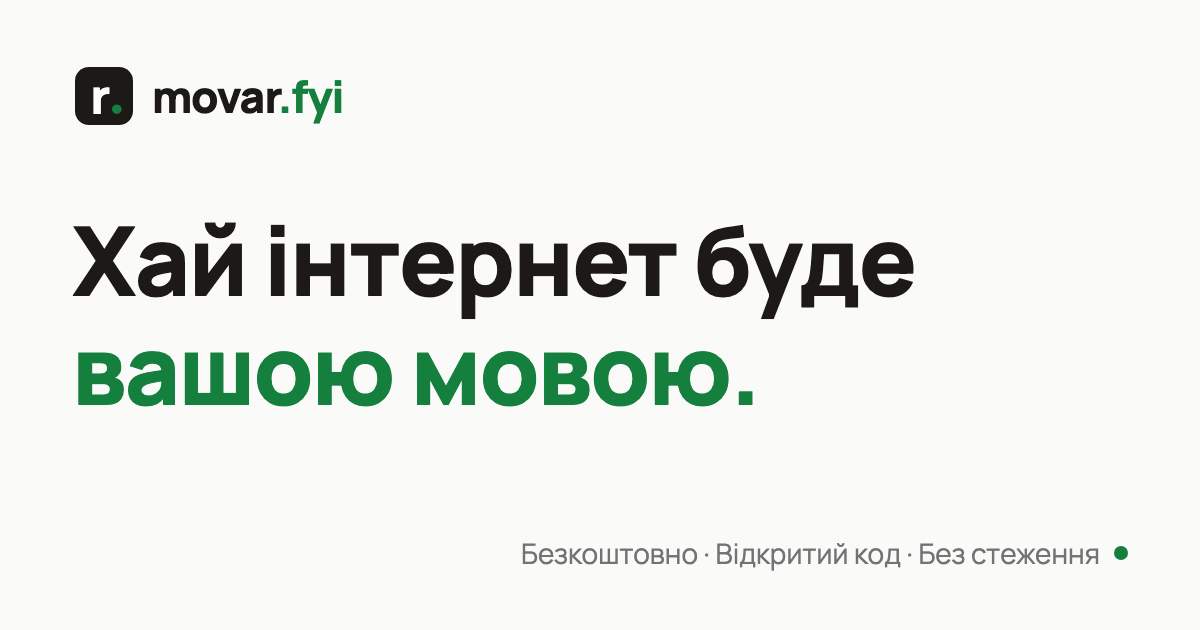
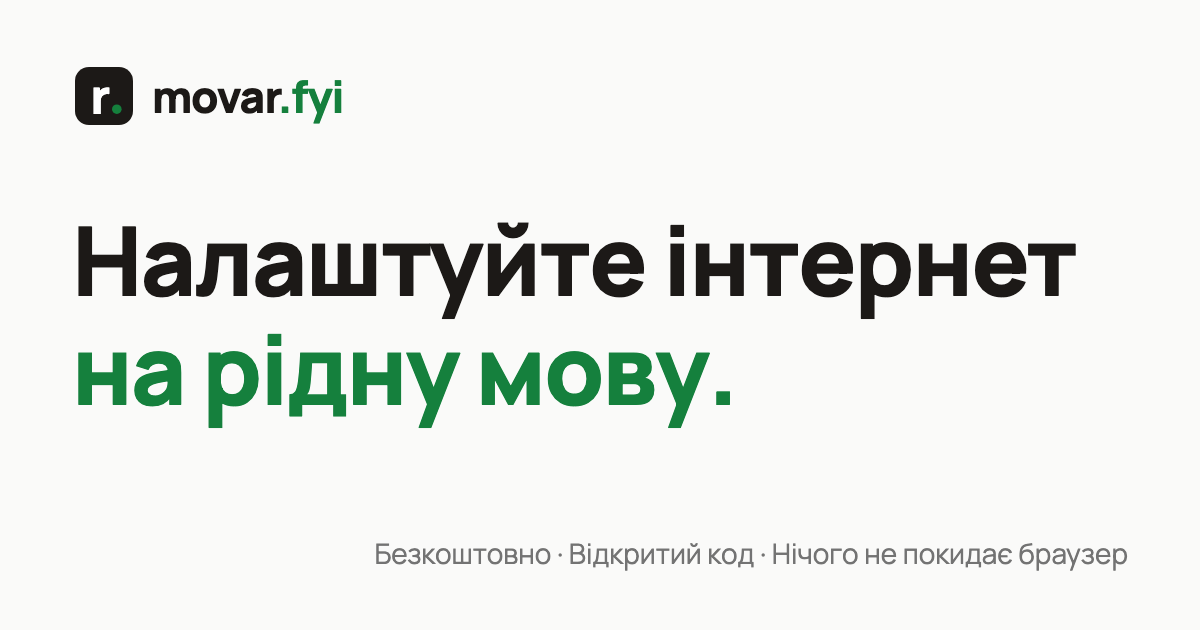
fix(marketing): rephrase OG caption to the verified privacy claim, drop annotation dot
The OG share card's bottom-right caption ended with a 14px forest accent
dot sitting right after the privacy claim, where a footnote marker goes —
it read as a "terms apply" annotation hanging off the last word. Remove it;
the accent still carries in the wordmark and tagline line 2, and the caption
now ends flush with the same 72px right margin the wordmark and tagline share
(the dot had also pushed the text past that margin).

Rephrase the caption from "No tracking" / «Без стеження» to the canonical
"Nothing leaves your browser" / «Нічого не покидає браузер» — the same
machine-verified promise string already used by the hero badge, the Safari
host app, and the store listing, so the claim reads identically everywhere.

Also:
- The checked-in UK PNG still rendered a retired tagline ("Хай інтернет буде
  вашою мовою."); the card is captured on demand and nobody had re-run it.
  Regenerating both cards picks up the current tagline and the new caption.
- Widen the copy-contract caption cap 6 -> 8 words (docs/copy.md) so the spec
  matches what shipped, per its own round-up rule.
- The claim string now appears on the OG card too, so add it to the
  "Nothing leaves your browser" promise's claim sites (scripts/lib/promises.mts);
  regenerate the README promises block that field drives.

Changed region(s): [[0.0617, 0.3317, 0.8942, 0.5127], [0.0617, 0.5127, 0.6475, 0.6937], [0.3083, 0.8444, 0.9558, 0.9048]]

diff --git a/apps/marketing/src/og/OgCard.tsx b/apps/marketing/src/og/OgCard.tsx
@@ -46,10 +46,7 @@ export function OgCard({ lang = 'en' }: Readonly<OgCardProps>): JSX.Element {
         <p style={{ ...taglineLineStyle, color: ACCENT, marginTop: 8 }}>{t.taglineLine2}</p>
       </div>
 
-      <div style={captionStyle}>
-        <span>{t.caption}</span>
-        <span style={accentDotStyle} />
-      </div>
+      <p style={captionStyle}>{t.caption}</p>
     </div>
   );
 }
@@ -104,22 +101,20 @@ const taglineLineStyle: CSSProperties = {
   color: INK,
 };
 
+/**
+ * Deliberately no trailing accent dot. The card once ended the caption with a
+ * 14px forest circle; at social-preview scale it read as a footnote marker
+ * hanging off the last claim — exactly the "terms apply" implication a privacy
+ * line must not carry. The accent now lives only in the wordmark and tagline
+ * line 2, and the caption ends flush with the 72px right margin the wordmark
+ * and tagline share.
+ */
 const captionStyle: CSSProperties = {
   position: 'absolute',
   right: 72,
   bottom: 56,
-  display: 'flex',
-  alignItems: 'center',
-  gap: 14,
+  margin: 0,
   color: INK_FAINT,
   fontSize: 28,
   fontWeight: 400,
-};
-
-const accentDotStyle: CSSProperties = {
-  display: 'inline-block',
-  width: 14,
-  height: 14,
-  borderRadius: 9999,
-  background: ACCENT,
 };

diff --git a/apps/marketing/src/i18n.ts b/apps/marketing/src/i18n.ts
@@ -558,7 +558,7 @@ const en: Strings = {
   og: {
     taglineLine1: tagline.en.line1,
     taglineLine2: tagline.en.line2,
-    caption: 'Free · Open source · No tracking',
+    caption: 'Free · Open source · Nothing leaves your browser',
   },
   whyThisHappens: {
     pageTitle: 'Why this keeps happening — Movar',
@@ -982,7 +982,7 @@ const uk: Strings = {
   og: {
     taglineLine1: tagline.uk.line1,
     taglineLine2: tagline.uk.line2,
-    caption: 'Безкоштовно · Відкритий код · Без стеження',
+    caption: 'Безкоштовно · Відкритий код · Нічого не покидає браузер',
   },
   whyThisHappens: {
     pageTitle: 'Чому так стається — Movar',

diff --git a/README.md b/README.md
@@ -105,7 +105,7 @@ length-and-register caps.
 - **License** `MIT` — SPDX identifier read from the root `LICENSE` file.
 - **Promises** `3/3 kept` — public claims from movar.fyi (apps/marketing) verified against the code each build — `pnpm check:readme` fails if any breaks:
   - ✓ **Open source** — root LICENSE is MIT, an OSI-approved open-source license _(marketing: hero badge + footer)_
-  - ✓ **Nothing leaves your browser** — manifest declares data collection 'none', no analytics dependency, and no fetch/XHR/WebSocket/sendBeacon in the extension runtime _(marketing: hero badge + privacy section + limitations)_
+  - ✓ **Nothing leaves your browser** — manifest declares data collection 'none', no analytics dependency, and no fetch/XHR/WebSocket/sendBeacon in the extension runtime _(marketing: hero badge + OG card + privacy section + limitations)_
   - ✓ **On-page filtering stays off until you turn it on** — `defaultSettings.contentModification` is false in @movar/settings — DOM filtering ships opt-in _(marketing: how-it-works step 2 + limitations)_
 - **Permissions** `3 requested` — browser permissions the extension manifest requests, each scoped to one job:
   - `storage` — persist your settings, pause state, and the local corrections log (preferences sync; state stays on-device)

diff --git a/docs/copy.md b/docs/copy.md
@@ -279,7 +279,7 @@ Mode is orthogonal. Both promote and protect have an **action** mode (one senten
 | Close          | Lead                            | ≤ 25 words            | warm (state/promote)     | _"Have a question, an idea..."_                                                                                                        |
 | Footer         | Link                            | 1–2 words             | state                    | _"Privacy"_, _"Install"_                                                                                                               |
 | OG card        | Tagline line                    | 2–4 words             | promote                  | _"Keep the internet"_                                                                                                                  |
-| OG card        | Caption                         | ≤ 6 words             | state                    | _"Free · Open source · No tracking"_                                                                                                   |
+| OG card        | Caption                         | ≤ 8 words             | state                    | _"Free · Open source · Nothing leaves your browser"_                                                                                   |
 | Deep-dive      | Section heading                 | 4–10 words            | protect-in-explanation   | _"Language detectors guess from letters"_                                                                                              |
 | Deep-dive      | Section lead                    | ≤ 30 words            | protect-in-explanation   | _"They don't read pages..."_                                                                                                           |
 | Deep-dive      | Bullet point                    | ≤ 55 words            | protect-in-explanation   | (full bullet)                                                                                                                          |